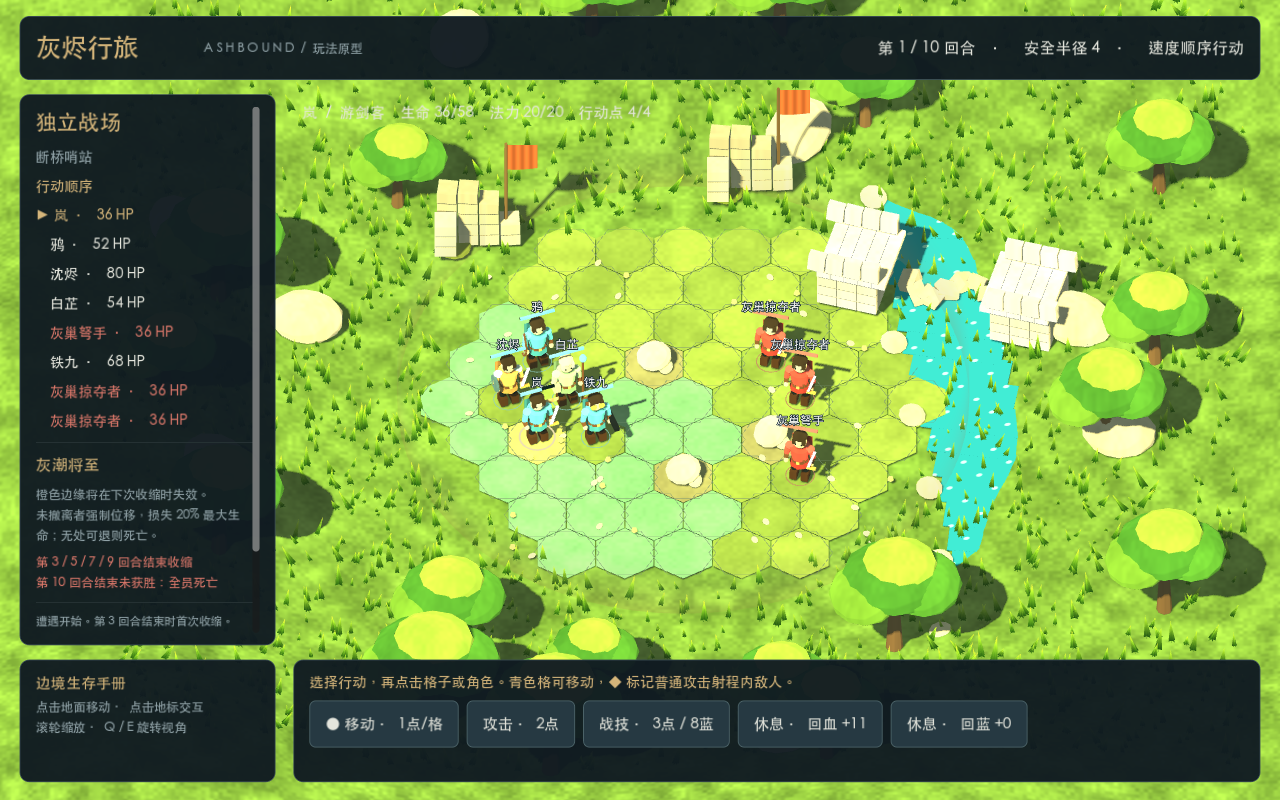
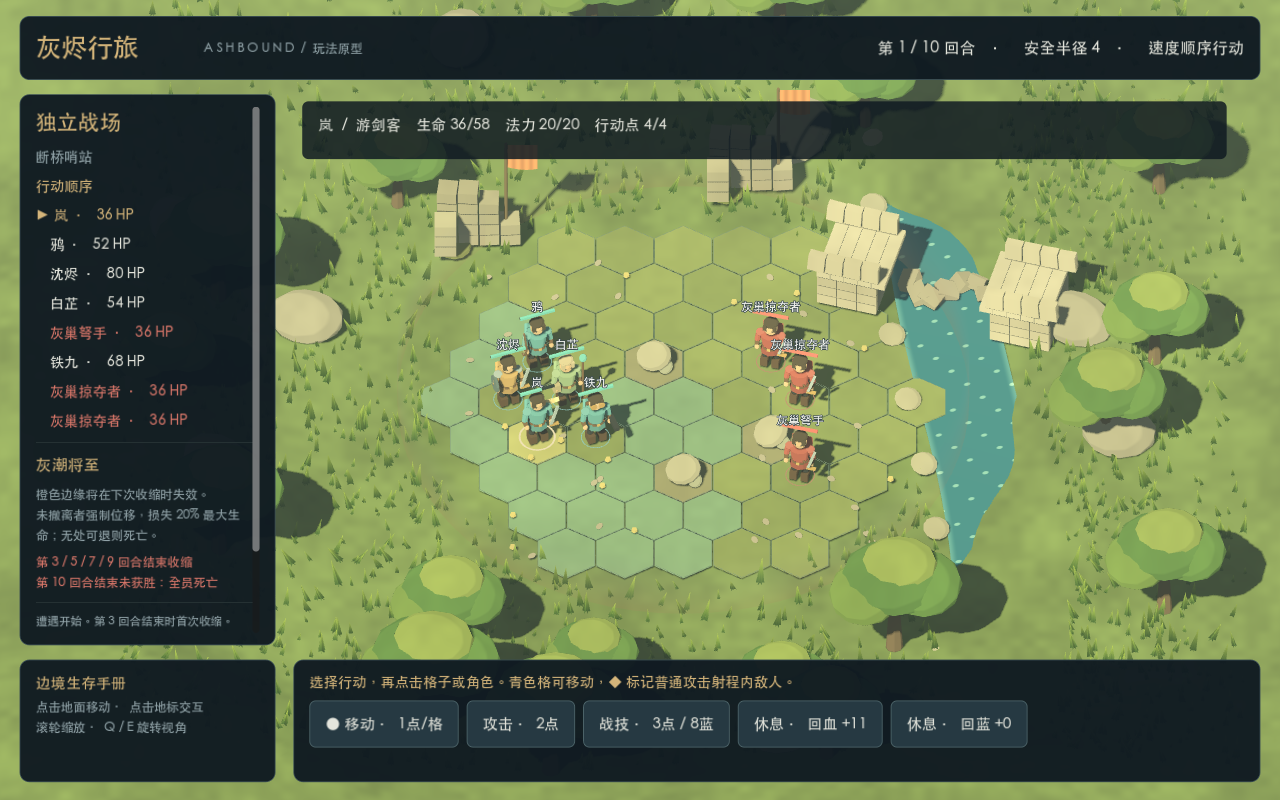
feat: refine stylized battlefield lighting, terrain and grey tide

diff --git a/tests/verify.py b/tests/verify.py
@@ -13,7 +13,7 @@ if not engine.exists():
 if not engine:
     sys.exit('Godot 4.7.2 is required.')
 checks = 0
-for suite in ('run', 'edges', 'campaign', 'integration', 'persistence', 'ui'):
+for suite in ('run', 'edges', 'campaign', 'integration', 'persistence', 'ui', 'art'):
     result = subprocess.run([str(engine), '--headless', '--path', str(root),
                              '--script', f'res://tests/{suite}.gd'],
                             text=True, stdout=subprocess.PIPE, stderr=subprocess.STDOUT, timeout=40)
@@ -28,4 +28,4 @@ smoke = subprocess.run([str(engine), '--headless', '--path', str(root), '--', '-
 print(smoke.stdout, end='')
 if smoke.returncode or 'SCENE_SMOKE_OK' not in smoke.stdout or 'ERROR:' in smoke.stdout:
     sys.exit(1)
-print(f'PASS: {checks} checks across 6 suites; native scene smoke passed.')
+print(f'PASS: {checks} checks across 7 suites; native scene smoke passed.')

diff --git a/docs/progress.md b/docs/progress.md
@@ -16,3 +16,10 @@ Visual verification: native rendered world and battle PNGs inspected; fixed head
 Final verification: python3 tests/verify.py — 80 checks in six suites, zero failures; SCENE_SMOKE_OK. Native captures have no script errors.
 Integration: retain local prototype branch in this fresh repository; no remote or merge base exists. No platform publishing performed.
 Limitations: one small region, six starting units, no full recruitment/story/equipment-management system, simple models, no final audio/animation or phone layout validation.
+
+## 2026-10-24 art upgrade
+Standing authorization used to execute approved Tears-of-the-Kingdom-inspired original style without routine confirmation. Added separate Art factory and painterly, wind, water, cloth and tide shaders. No simulation/save-format changes.
+Art test initially failed (missing factory), then passed after integration; now 10 visual/state checks. Fixed overbright custom diffuse lighting against Godot shader reference (LIGHT_COLOR includes PI), ring/cylinder orientation mismatch, water stepping, grass in water/paths, cape flutter axis and status contrast after native screenshot review.
+Independent read-only review reported no blocking defects. Native Compatibility captures inspected for world, battle, warning and post-shrink terrain. Full suite expanded to 90 checks / 7 suites plus native scene smoke.
+Ruling: scenery outside the tactical field may have height; tactical picking and actor positions stay on the existing plane. Shared generated assets used across encounter types, with broken bridge as the main sample.
+Limits: procedural original art is an intermediate visual sample; no final rigged battle animations, no measured mobile performance, no assertion of matching reference game's production quality.

diff --git a/docs/superpowers/plans/2026-10-24-art-upgrade.md b/docs/superpowers/plans/2026-10-24-art-upgrade.md
@@ -20,16 +20,16 @@
 - World and battle UI retain existing click semantics.
 
 ## Task 1: Visual factory
-- [ ] Add failing art integration test: art factory produces scenery and actors without changing rule state.
-- [ ] Add game/art.gd plus terrain, vegetation, water and cloth shaders.
-- [ ] Build textured-color terrain, rocks, grass, trees, bridge and ruins; detailed articulated character meshes.
+- [x] Add failing art integration test: art factory produces scenery and actors without changing rule state.
+- [x] Add game/art.gd plus terrain, vegetation, water and cloth shaders.
+- [x] Build textured-color terrain, rocks, grass, trees, bridge and ruins; detailed articulated character meshes.
 
 ## Task 2: Integrate and animate
-- [ ] Replace battle slab with terrain scene, thin tactical overlays, procedural props and improved characters.
-- [ ] Share revised materials and vegetation with world; add wind, pennants and grey-tide boundary.
-- [ ] Verify picking, shrinking and repeated rebuilds with art/UI tests.
+- [x] Replace battle slab with terrain scene, thin tactical overlays, procedural props and improved characters.
+- [x] Share revised materials and vegetation with world; add wind, pennants and grey-tide boundary.
+- [x] Verify picking, shrinking and repeated rebuilds with art/UI tests.
 
 ## Task 3: Visual iteration and delivery
-- [ ] Run full suite, render native screenshots and inspect each.
-- [ ] Iterate lighting, composition and clarity against actual screenshots.
-- [ ] Update README and execution record; commit local work and open game.
+- [x] Run full suite, render native screenshots and inspect each.
+- [x] Iterate lighting, composition and clarity against actual screenshots.
+- [x] Update README and execution record; commit local work and open game.

diff --git a/README.md b/README.md
@@ -32,7 +32,7 @@
 
 ## 验证
 
-运行 `python3 tests/verify.py` 可执行完整验证。当前六组共 80 项检查通过，另有原生场景启动检查。模拟策略在三种遭遇中分别用 2、3、6 回合获胜，深处遭遇经历两次缩圈。该结果用于原型调试，不代表正式难度已完成平衡。
+运行 `python3 tests/verify.py` 可执行完整验证。当前七组共 90 项检查通过，另有原生场景启动检查。模拟策略在三种遭遇中分别用 2、3、6 回合获胜，深处遭遇经历两次缩圈。该结果用于原型调试，不代表正式难度已完成平衡。
 
 当前字体优先使用本机系统中文字体；正式跨平台打包前需要加入可再分发字体，并重新适配移动端布局。
 
@@ -44,3 +44,11 @@
 ```
 
 设计与开发记录保存在 `docs/`。存档位于 Godot 的本地用户数据目录，文件名 `ashbound-save.json`。
+
+## 2026-10-24 美术样板升级
+
+断桥哨站已接入原创风格化场景：起伏的场外地形、砌石断桥、遗迹、连续浅溪、圆冠树木和实例化风动草。人物有分层服装、头发、披风和职业装备，并加入轻微呼吸和布料摆动；尚非正式骨骼战斗动画。
+
+战棋地块改为薄地面提示，缩圈有边缘流动灰潮、橙色预警与收缩后地面灰化。使用柔和分层漫反射、暖阳和少量远景雾；保留 Compatibility 渲染器。世界地图共享新角色、树木、草和材质，尚未逐处完成场景重制。
+
+实际游戏截图位于 artifacts/world.png、battle.png、shrink.png（收缩前预警）、tide.png（第一次收缩后）。原有玩法与存档格式兼容。未验证手机帧率，尚未加入正式角色动画与商业美术资产。
